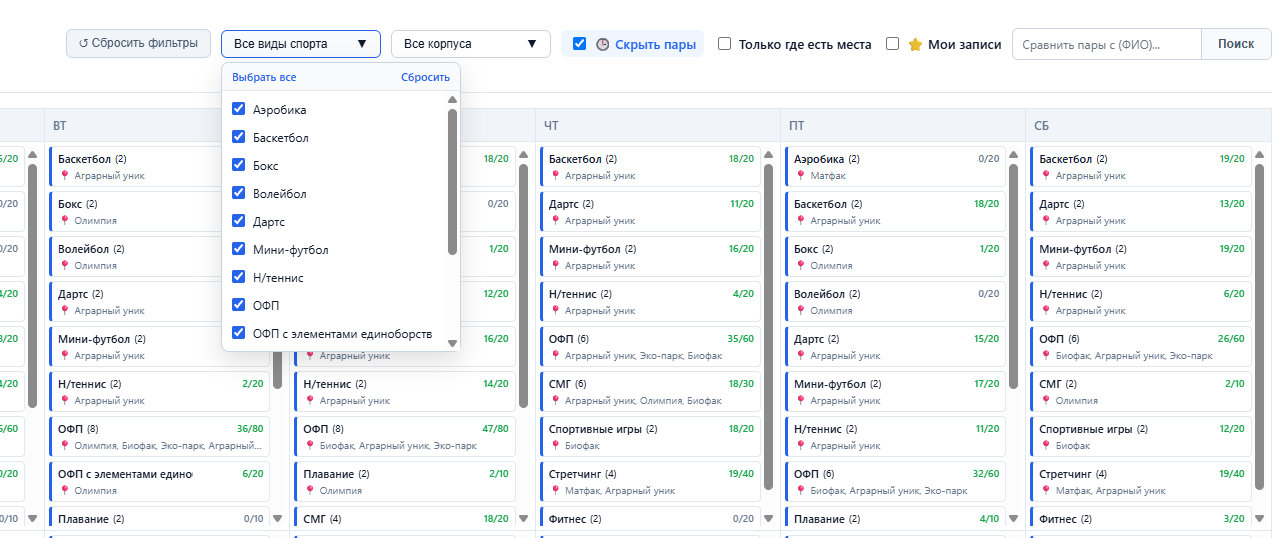
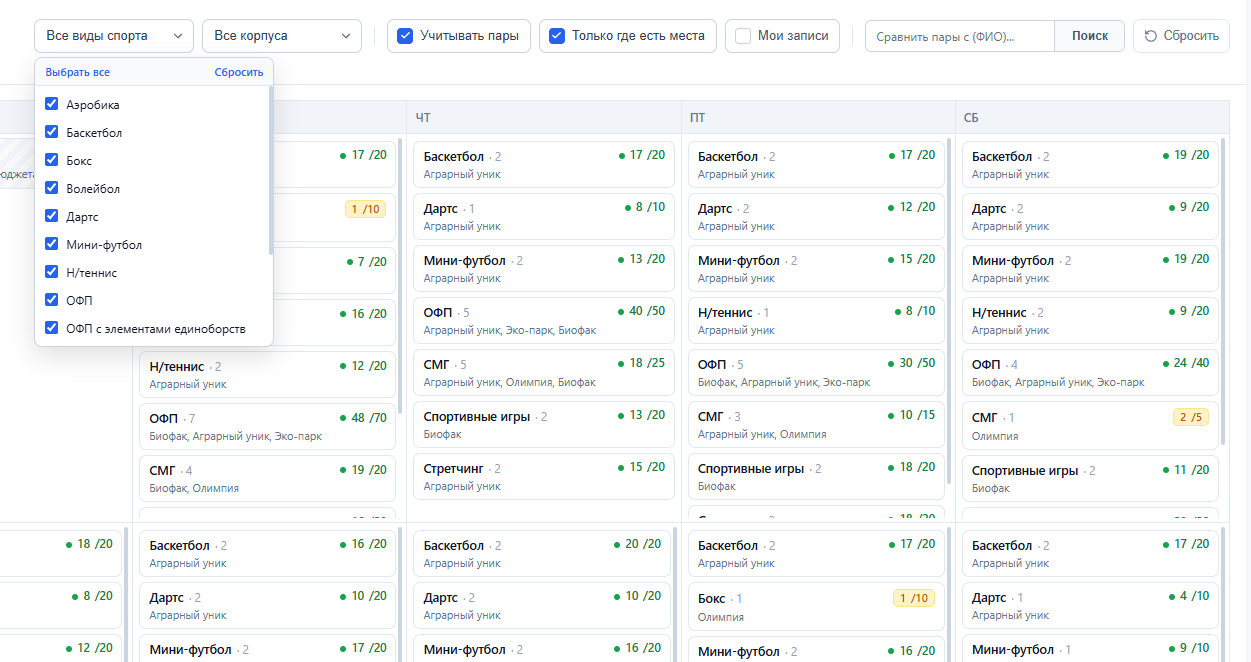
Up 2.2.4
- mini fix

Changed region(s): [[0.0, 0.0297, 0.9976, 1.0]]

diff --git a/styles/pe-styles.css b/styles/pe-styles.css
@@ -666,7 +666,7 @@
     color: #64748b;
     line-height: 1.35;
     display: -webkit-box;
-    -webkit-line-clamp: 2;
+    -webkit-line: 2;
     -webkit-box-orient: vertical;
     overflow: hidden;
     text-overflow: ellipsis;
@@ -674,7 +674,7 @@
 
 .busy-card.expanded .busy-title {
     display: block;
-    -webkit-line-clamp: unset;
+    -webkit-line: unset;
     overflow: visible;
     color: #334155;
 }

diff --git a/readme.md b/readme.md
@@ -2,7 +2,7 @@
 
 🇷🇺 Русский | [🇬🇧 English](README_EN.md)
 
-![Version](https://img.shields.io/badge/version-2.2.3-blue.svg)
+![Version](https://img.shields.io/badge/version-2.2.4-blue.svg)
 ![Chromium](https://img.shields.io/badge/Chromium-Chrome%20%7C%20Edge%20%7C%20Яндекс%20%7C%20Opera%20%7C%20Brave-4285F4?logo=googlechrome&logoColor=white) 
 ![Platform](https://img.shields.io/badge/platform-UTMN%20Modeus-orange.svg)
 ![Manifest](https://img.shields.io/badge/manifest-v3-green.svg)
@@ -82,4 +82,8 @@
 ---
 
 ## Для разработчиков
-Подробный технический разбор архитектуры доступен в файле [docs/architecture.md](docs/architecture.md).
+Подробный технический разбор архитектуры доступен в файле [docs/architecture.md](docs/architecture.md). Файл архитектуры постоянно доробатывается и измнениятся, в поисках лучше версии себя. ADR наполнена ии слопом и не точностями техническими, поэтому будет в будущем переработана или удалена.
+
+---
+
+Проект открыт к вашим PR!

diff --git a/README_EN.md b/README_EN.md
@@ -2,7 +2,7 @@
 
 [🇷🇺 Русский](readme.md) | 🇬🇧 English
 
-![Version](https://img.shields.io/badge/version-2.2.3-blue.svg)
+![Version](https://img.shields.io/badge/version-2.2.4-blue.svg)
 ![Chromium](https://img.shields.io/badge/Chromium-Chrome%20%7C%20Edge%20%7C%20Yandex%20%7C%20Opera%20%7C%20Brave-4285F4?logo=googlechrome&logoColor=white)
 ![Platform](https://img.shields.io/badge/platform-UTMN%20Modeus-orange.svg)
 ![Manifest](https://img.shields.io/badge/manifest-v3-green.svg)
@@ -84,4 +84,8 @@ Can't install it, found a bug, or have a cool idea for a new feature?
 ---
 
 ## For developers
-A detailed technical breakdown of the architecture is available in [docs/architecture.md](docs/architecture.md).
+A detailed technical breakdown of the architecture is available in [docs/architecture.md](docs/architecture.md). The architecture file is constantly being worked out and modified, in search of a better version of itself. ADR is filled with AI slops and technical inaccuracies, so it will be redesigned or deleted in the future.
+
+---
+
+The project is open for уour PR!
